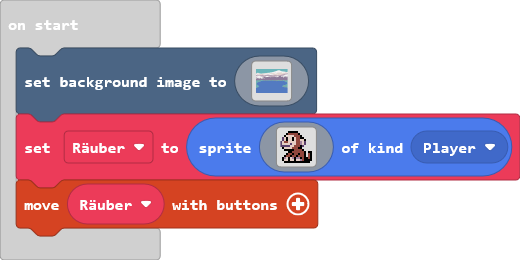
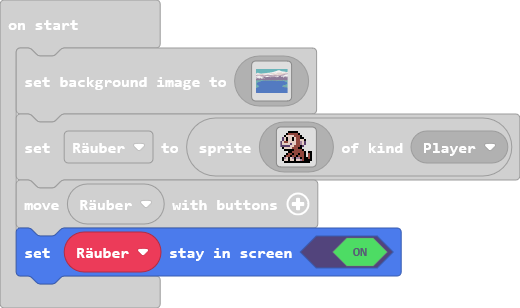
Update main.blocks, main.ts

diff --git a/main.ts b/main.ts
@@ -139,3 +139,4 @@ let Räuber = sprites.create(img`
     . . f f f f f f f f f f f f f . 
     `, SpriteKind.Player)
 controller.moveSprite(Räuber)
+Räuber.setStayInScreen(true)
